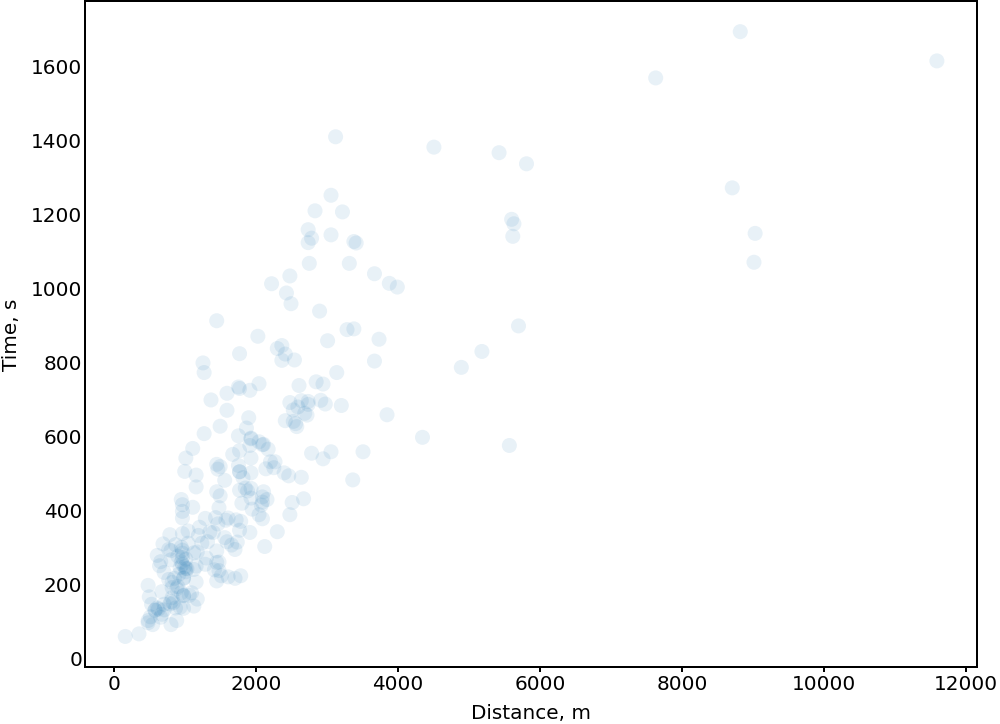
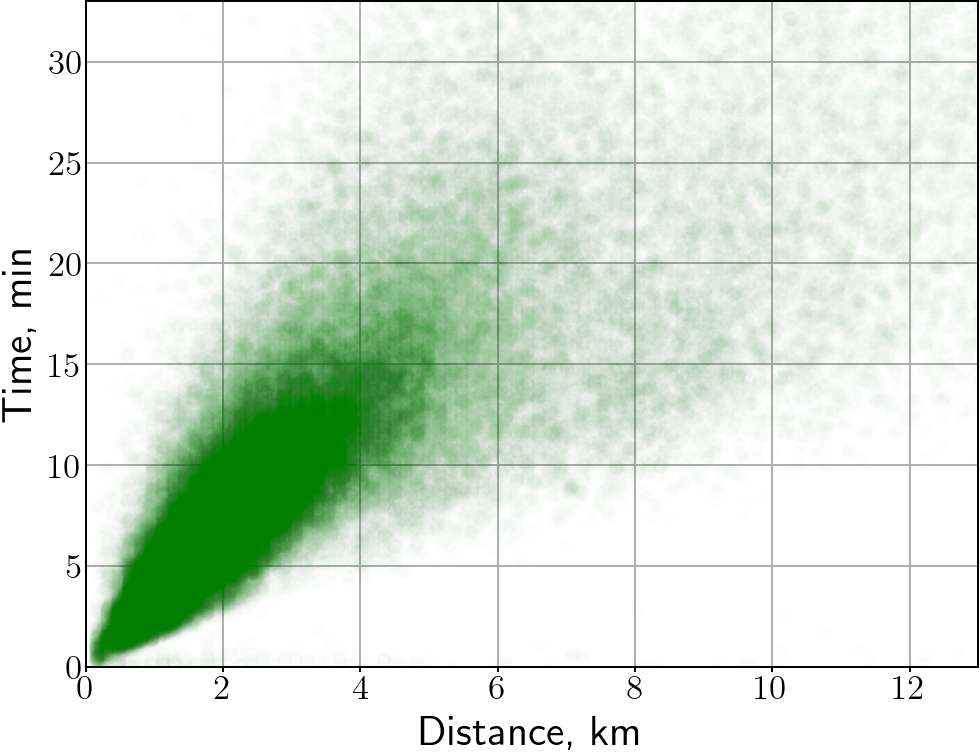
figures

diff --git a/data/20210610-NYCTLC/b_explore.py b/data/20210610-NYCTLC/b_explore.py
@@ -5,55 +5,280 @@ Based on
 https://github.com/numpde/transport/blob/master/pt2pt/20191021-NYCTLC/data_preparation/b_explore_taxidata.py
 """
 
+import calendar
+from collections import Counter
+
 from twig import log
 
 from pathlib import Path
 from sqlite3 import connect
 
+import numpy as np
 import pandas as pd
 
-from itertools import product, chain
+from itertools import product, chain, groupby
 
-from plox import Plox
+from plox import Plox, rcParam
 from tcga.utils import download, unlist1, from_iterable, mkdir, first, First, whatsmyname
+
+import z_maps as maps
 
 BASE = Path(__file__).parent.resolve()
 out_dir = Path(__file__).with_suffix('')
 
 style = {
-    'font.size': 8,
-    'xtick.major.size': 2,
-    'ytick.major.size': 0,
-    'xtick.major.pad': 1,
-    'ytick.major.pad': 1,
+    rcParam.Text.usetex: True,
+
+    # rcParam.Font.size: 3,
+
+    rcParam.Font.size: 14,
+    rcParam.Axes.labelsize: "large",
+
+    rcParam.Xtick.Major.size: 2,
+    rcParam.Ytick.Major.size: 0,
+
+    rcParam.Xtick.Major.pad: 1,
+    rcParam.Ytick.Major.pad: 1,
 }
 
 
-def query(sql) -> pd.DataFrame:
+def name2color(table_name):
+    if "green" in table_name: return "green"
+    if "yello" in table_name: return "darkorange"
+    return None
+
+
+def name2cmap(table_name):
+    import matplotlib.colors as mcolors
+    return mcolors.LinearSegmentedColormap.from_list('company', ["white", name2color(table_name)])
+
+
+def QUERY(sql) -> pd.DataFrame:
     log.debug(f"Query: {sql}.")
     with connect(unlist1(BASE.glob("**/trips.db"))) as con:
         return pd.read_sql_query(sql, con)
 
 
-def trip_duration_vs_distance(table_name):
+def trip_distance_histogram(table_name):
+    sql = F"SELECT [distance] FROM [{table_name}]"
+    trip_distance = QUERY(sql).squeeze()
+
+    assert isinstance(trip_distance, pd.Series)
+
+    # Convert to km
+    trip_distance *= (1e-3)
+
+    with Plox(style) as px:
+        trip_distance.hist(ax=px.a, label=f"{table_name}", color=name2color(table_name))
+        px.a.set_yscale('log')
+        px.a.set_xlabel('Trip distance, km')
+        px.a.set_ylabel('Number of trips')
+        px.a.set_xlim(0, 52)
+        px.a.set_ylim(1, 2e7)
+        px.a.grid(False)
+        # px.a.legend()
+
+        px.f.savefig(mkdir(out_dir / f"{whatsmyname()}") / f"{table_name}.png")
+
+
+def trip_trajectories_initial(table_name):
+    N = 10000
+
+    # Column names
+    lat = ['xa_lat', 'xb_lat']
+    lon = ['xa_lon', 'xb_lon']
+
+    sql = F"SELECT {(', '.join(lat + lon))} FROM [{table_name}] ORDER BY RANDOM() LIMIT {N}"
+    df = QUERY(sql)
+
+    with Plox(style) as px:
+        px.a.tick_params(axis='both', which='both', labelsize='3')
+
+        for (yy, xx) in zip(df[lat].values, df[lon].values):
+            px.a.plot(xx, yy, c=name2color(table_name), ls='-', alpha=0.1, lw=0.1)
+
+        px.a.axis("off")
+
+        # Get the background map
+        axis = px.a.axis()
+        img_map = maps.get_map_by_bbox(maps.ax2mb(*axis))
+
+        px.a.imshow(img_map, extent=axis, interpolation='quadric', zorder=-100)
+
+        px.f.savefig(mkdir(out_dir / f"{whatsmyname()}") / f"{table_name}.png")
+
+
+def pickup_hour_heatmap(table_name):
+    sql = F"SELECT [ta] FROM [{table_name}]"
+    # sql += "ORDER BY RANDOM() LIMIT 1000"  # DEBUG
+
+    pickup = pd.to_datetime(QUERY(sql).squeeze())
+    assert isinstance(pickup, pd.Series)
+
+    # Number of rides by weekday and hour
+    df: pd.DataFrame
+    df = pd.DataFrame({'d': pickup.dt.weekday, 'h': pickup.dt.hour})
+    df = df.groupby(['d', 'h']).size().reset_index()
+    df = df.pivot(index='d', columns='h', values=0)
+    df = df.sort_index()
+
+    # Average over the number of weekdays in the dataset
+    df = df.div(pd.Series(Counter(d for (d, g) in groupby(pickup.sort_values().dt.weekday))), axis='index')
+
+    with Plox(style) as px:
+        im = px.a.imshow(df, cmap="Blues", origin="upper")
+
+        (xlim, ylim) = (px.a.get_xlim(), px.a.get_ylim())
+        px.a.set_xticks(np.linspace(-0.5, 23.5, 25))
+        px.a.set_xticklabels(range(0, 25), fontsize="xx-small")
+        px.a.set_yticks(px.a.get_yticks(minor=False), minor=False)
+        px.a.set_yticklabels([dict(enumerate(calendar.day_abbr)).get(int(t), "") for t in px.a.get_yticks(minor=False)])
+        px.a.set_xlim(*xlim)
+        px.a.set_ylim(*ylim)
+
+        for i in range(df.shape[0]):
+            for j in range(df.shape[1]):
+                alignment = dict(ha="center", va="center")
+                im.axes.text(j, i, int(round(df.loc[i, j])), fontsize=4, **alignment)
+
+        px.f.savefig(mkdir(out_dir / f"{whatsmyname()}") / f"{table_name}.png")
+
+
+def trip_speed_histogram(table_name):
+    import matplotlib.pyplot as plt
+
+    sql = F"SELECT [ta] as ta, [tb] as tb, [distance] as m FROM [{table_name}]"
+    # sql += "ORDER BY RANDOM() LIMIT 1000"  # DEBUG
+    df = QUERY(sql)
+    df.ta = pd.to_datetime(df.ta)
+    df.tb = pd.to_datetime(df.tb)
+    # Duration in seconds
+    df['s'] = (df.tb - df.ta).dt.total_seconds()
+    # Hour of the day
+    df['h'] = df.tb.dt.hour
+    # Forget pickup/dropoff times
+    df = df.drop(columns=['ta', 'tb'])
+    # Columns: distance-meters, duration-seconds, hour-of-the-day
+    assert (all(df.columns == ['m', 's', 'h']))
+
+    # Estimated average trip speed
+    df['v'] = df.m / df.s
+
+    (H, Min, Sec) = (1 / (60 * 60), 1 / 60, 1)
+
+    # Omit low- and high-speed trips [m/s]
+    MIN_TRIP_SPEED = 0.1  # m/s
+    MAX_TRIP_SPEED = 15.5  # m/s
+    df = df[df.v >= MIN_TRIP_SPEED]
+    df = df[df.v <= MAX_TRIP_SPEED]
+
+    # Omit long-duration trips
+    MAX_TRIP_DURATION_H = 2  # hours
+    df = df[df.s < MAX_TRIP_DURATION_H * (Sec / H)]
+
+    with plt.style.context({**Plox._default_style, **style}):
+        fig: plt.Figure
+        ax1: plt.Axes
+        # Note: the default figsize is W x H = 8 x 6
+        (fig, ax24) = plt.subplots(24, 1, figsize=(8, 12))
+
+        xticks = list(range(int(np.ceil(MAX_TRIP_SPEED))))
+
+        for (h, hdf) in df.groupby(df['h']):
+            c = name2color(table_name) or plt.get_cmap("twilight_shifted")([h / 24])
+
+            ax1 = ax24[h]
+            ax1.hist(hdf.v, bins='fd', lw=2, density=True, histtype='step', color=c, zorder=10)
+
+            ax1.set_xlim(0, MAX_TRIP_SPEED)
+            ax1.set_xticks(xticks)
+            ax1.set_xticklabels([])
+
+            ax1.set_yticks([])
+            ax1.set_ylabel(F"{h}h", fontsize=10, rotation=90)
+            ax1.grid()
+
+        ax1.set_xticklabels(xticks)
+        ax1.set_xlabel("m/s")
+
+        fig.savefig(mkdir(out_dir / f"{whatsmyname()}") / f"{table_name}.png")
+
+
+def running_number_of_trips(table_name):
     sql = F"""
-        SELECT [ta], [tb], [distance] as ds
-        FROM [{table_name}]
-        WHERE ('2016-05-02 08:00' <= ta) and (tb <= '2016-05-02 08:30')
+        SELECT [ta] as t, +1 as n FROM [{table_name}]
+        UNION ALL
+        SELECT [tb] as t, -1 as n FROM [{table_name}]
     """
 
-    df = query(sql)
+    df: pd.DataFrame
+    df = QUERY(sql)
+    df.t = pd.to_datetime(df.t)
+    df = df.sort_values(by='t')
+    df.n = np.cumsum(df.n)
+
+    df['d'] = df.t.dt.floor('1d')
+    df['h'] = df.t.dt.hour
+
+    df = df.groupby(['d', 'h']).mean().reset_index()
+    df = df.pivot(index='d', columns='h', values='n').fillna(0).sort_index()
+
+    with Plox(style) as px:
+        im = px.a.imshow(df, cmap=name2cmap(table_name), origin="upper")
+
+        (xlim, ylim) = (px.a.get_xlim(), px.a.get_ylim())
+        px.a.set_xticks(np.linspace(-0.5, 23.5, 25))
+        px.a.set_xticklabels(range(25), fontsize=6)
+        px.a.set_yticks(range(len(df.index)))
+        px.a.set_yticklabels(df.index.date, fontsize=5)
+        px.a.set_xlim(*xlim)
+        px.a.set_ylim(*ylim)
+
+        for (j, c) in enumerate(df.columns):
+            for (i, x) in enumerate(df[c]):
+                im.axes.text(j, i, int(x), ha="center", va="center", fontsize=3)
+
+        px.f.savefig(mkdir(out_dir / f"{whatsmyname()}") / f"{table_name}.png")
+
+
+def trip_duration_vs_distance(table_name):
+    N = 100000
+
+    sql = f"""
+        SELECT [ta], [tb], [distance] as ds
+        FROM [{table_name}]
+        ORDER BY RANDOM() 
+        LIMIT {N}
+    """
+
+    # WHERE ('2016-05-01 00:00' <= ta) and (tb <= '2016-05-02 08:30')
+
+    df = QUERY(sql)
     df['dt'] = pd.to_datetime(df.tb) - pd.to_datetime(df.ta)
 
     with Plox(style) as px:
-        px.a.scatter(df['ds'], df['dt'].dt.total_seconds(), alpha=0.1, edgecolors='none')
-        px.a.set_xlabel("Distance, m")
-        px.a.set_ylabel("Time, s")
+        px.a.scatter(df['ds'] / 1e3, df['dt'].dt.total_seconds() / 60, alpha=0.01, edgecolors='none', c=name2color(table_name), zorder=N)
+        px.a.set_xlabel("Distance, km")
+        px.a.set_ylabel("Time, min")
+        px.a.set_xlim(0, 13)
+        px.a.set_ylim(0, 33)
+        px.a.grid(True, zorder=0)
         px.f.savefig(mkdir(out_dir / f"{whatsmyname()}") / f"{table_name}.png")
 
 
 if __name__ == '__main__':
+    ff = [
+        trip_distance_histogram,
+        trip_trajectories_initial,
+        pickup_hour_heatmap,
+        trip_speed_histogram,
+        running_number_of_trips,
+        trip_duration_vs_distance,
+    ]
+
     tables = {"green_tripdata_2016-05", "yellow_tripdata_2016-05"}
 
-    for table_name in sorted(tables):
-        trip_duration_vs_distance(table_name)
+    for f in ff:
+        for table_name in sorted(tables):
+            log.info(f"{f.__name__}({table_name})")
+            f(table_name)
